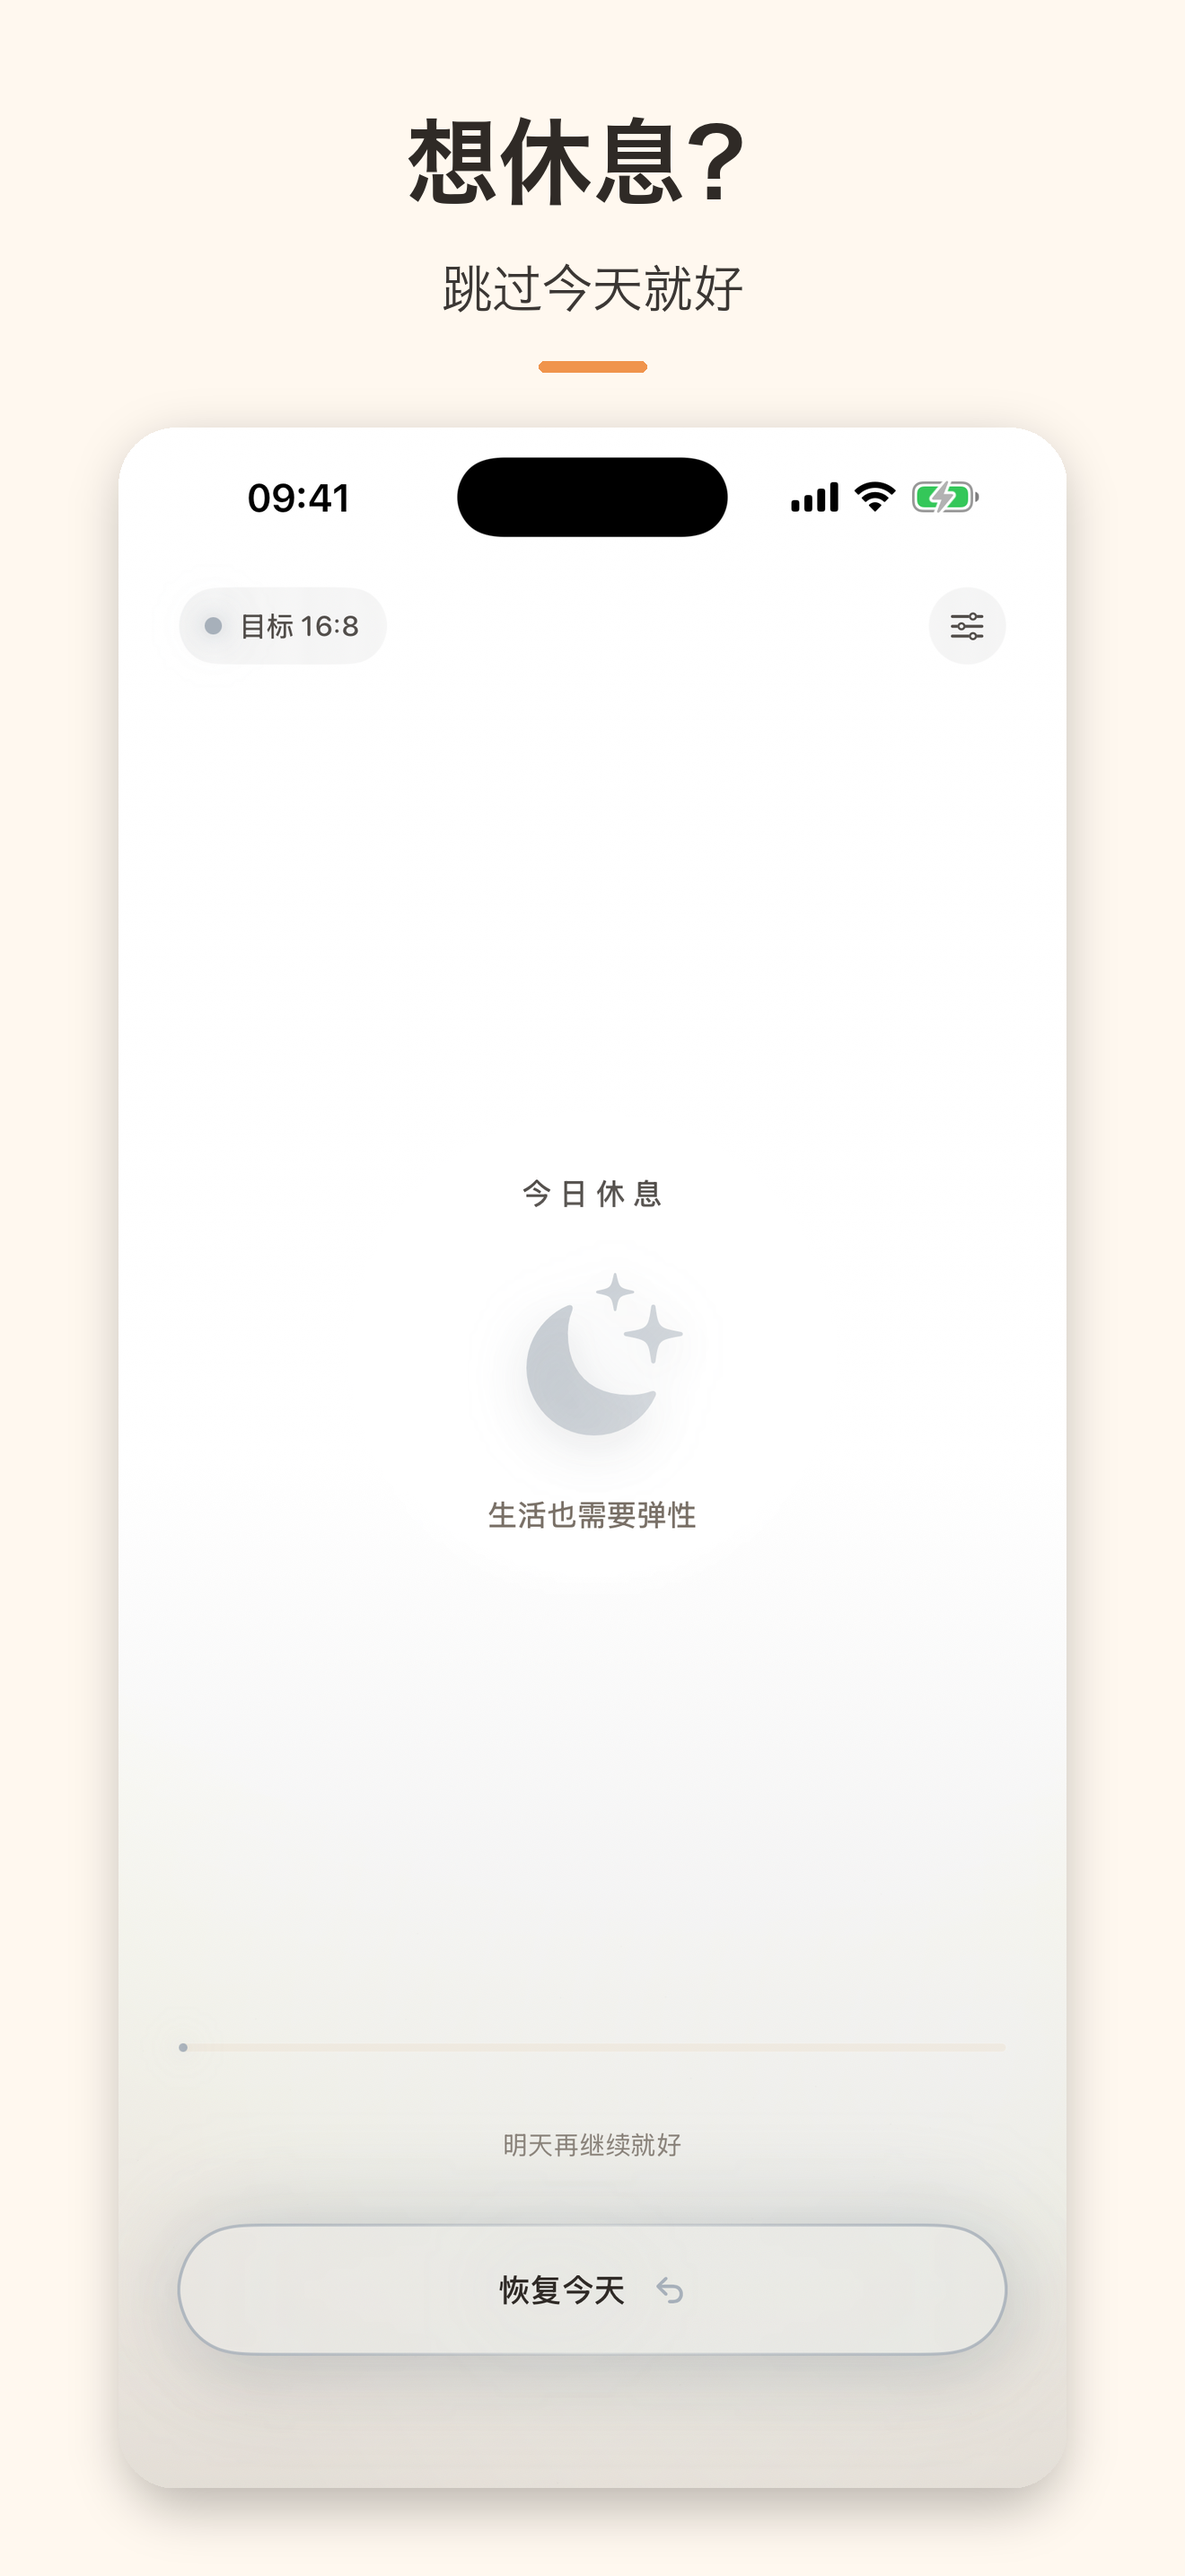
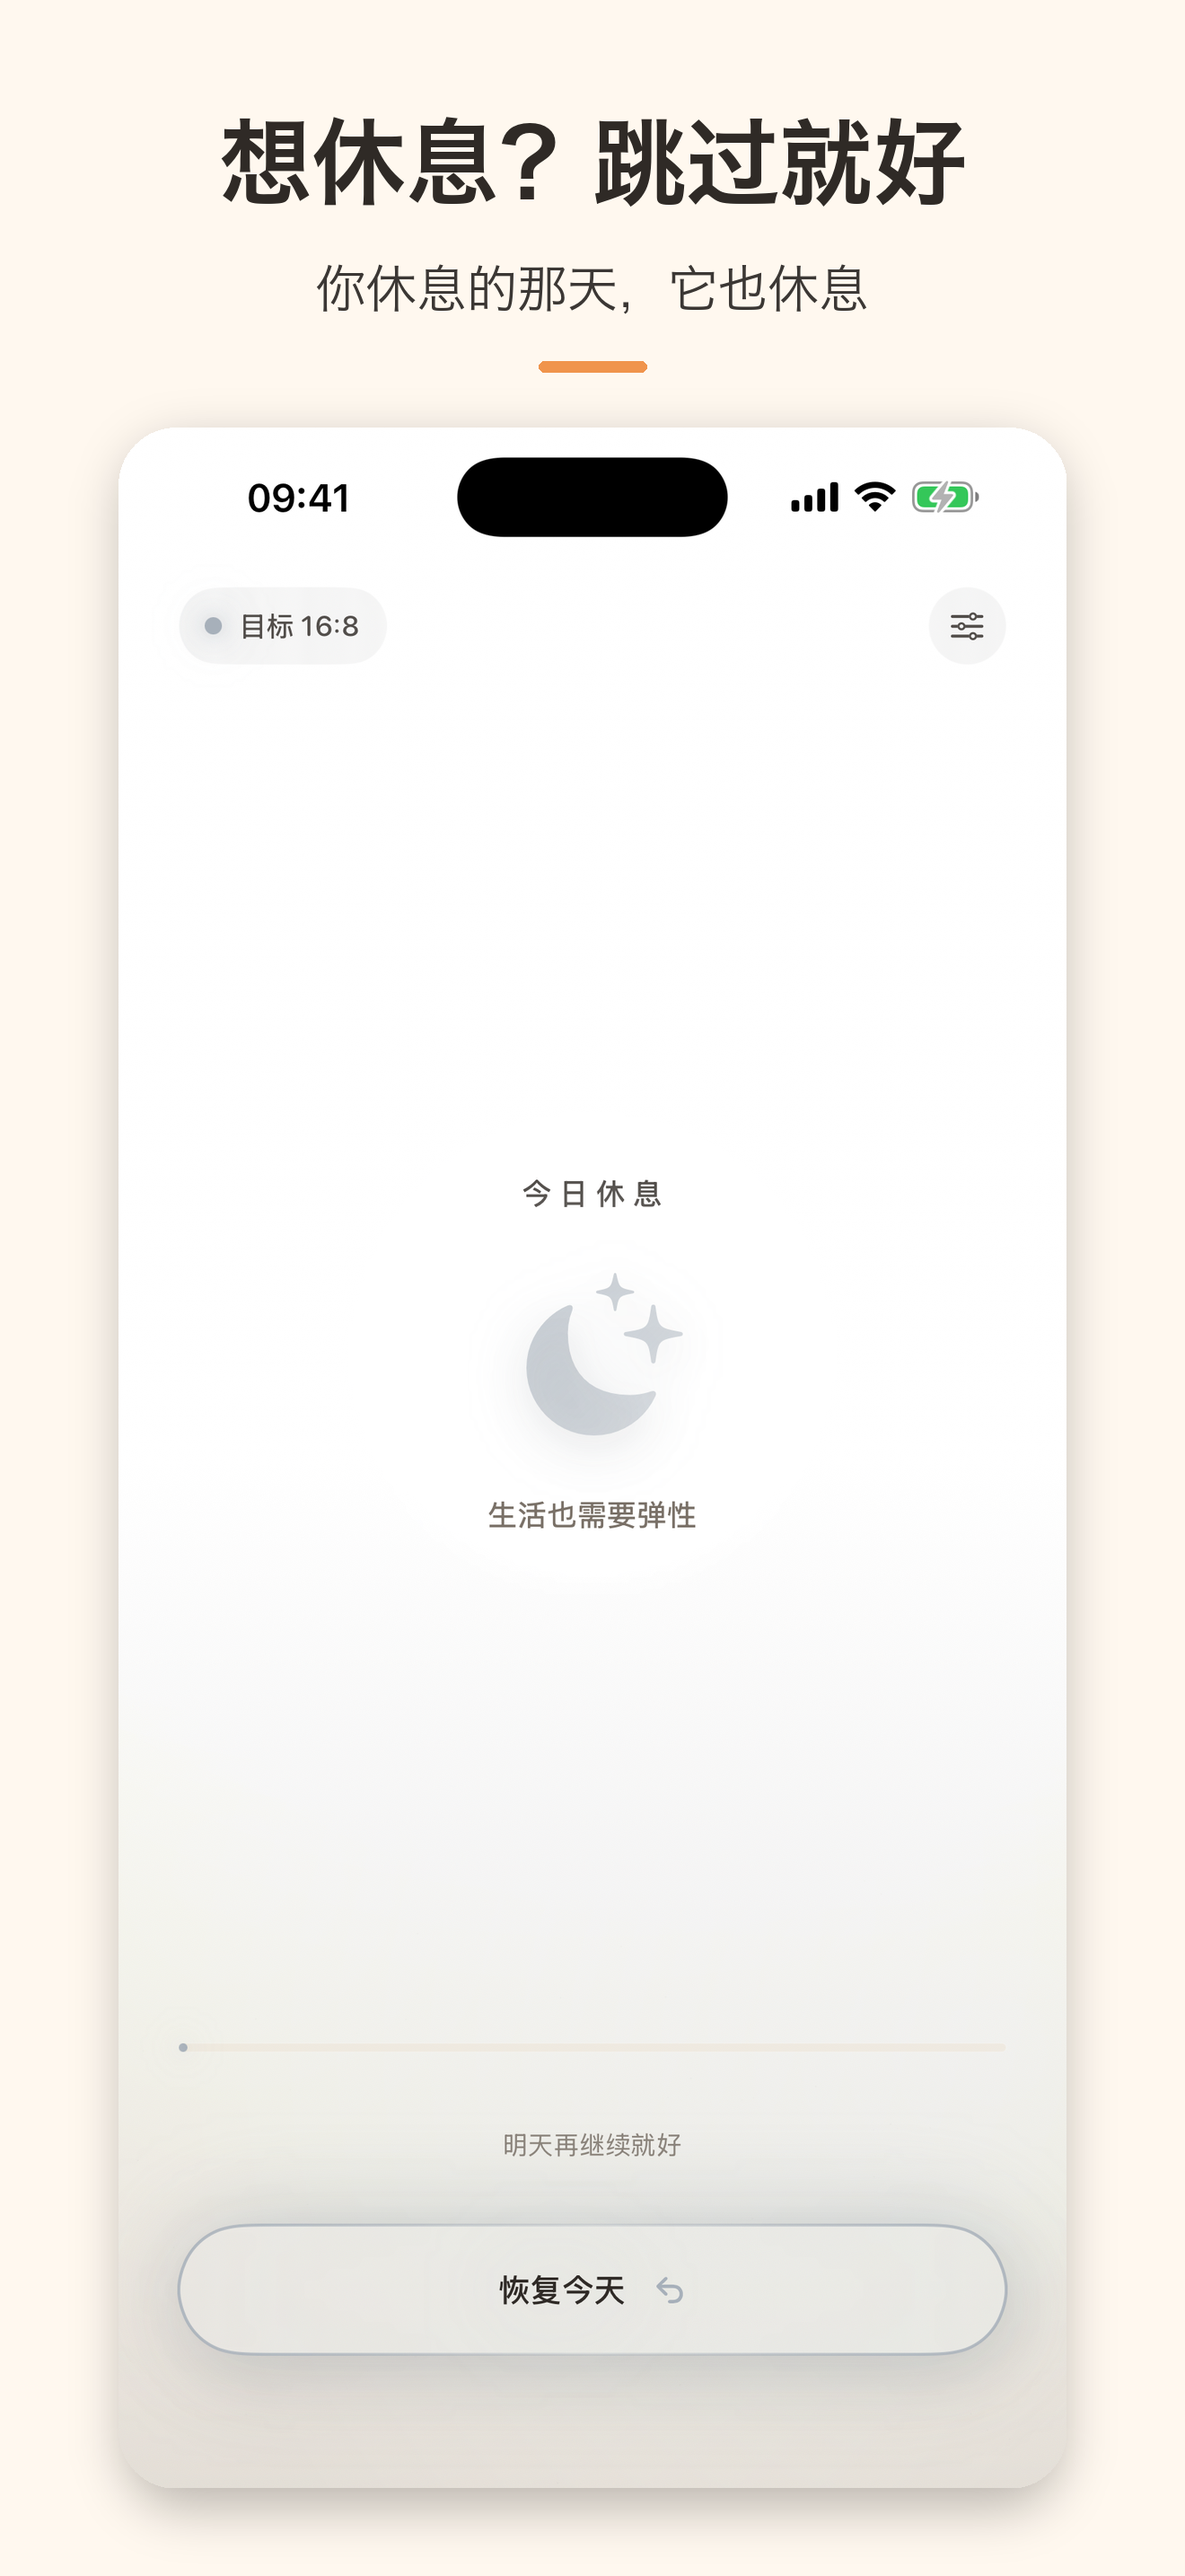
Store copy v3: principled, personable voice
Manifesto structure — "a few things we believe" + paired sections
"what it does, carefully" / "what it refuses to do, also carefully".
Signature lines: 陪你断食然后闭嘴 / 付一次钱安静一辈子 /
你休息的那天它也休息 / it's a timer, not a doctor.
All self-statements; no comparative claims. Shot 04 caption updated.

Changed region(s): [[0.1864, 0.031, 0.8076, 0.1241]]

diff --git a/AppStore/store-copy.md b/AppStore/store-copy.md
@@ -37,7 +37,7 @@
 
 **推广文本**（170 字符内，可随时更新，不索引——只做正面自述，不比较不贬损）
 ```
-一次买断，无订阅，无广告，无内购。不打卡，不催促，不打扰——只做一件事：安静地陪你计时。
+它的原则很简单：陪你断食，然后闭嘴。一次买断，无订阅，无广告，无内购——付一次钱，安静一辈子。
 ```
 
 **关键词**（100 字符内，半角逗号分隔，已与名称/副标题去重）
@@ -45,46 +45,57 @@
 减肥,减脂,瘦身,减重,168,禁食,液断,生酮,体重,空腹,不吃晚饭,断糖,计划,打卡,自律,买断,小组件,fasting
 ```
 
-**描述**（前三行是折叠线以上的黄金位——正面宣言开场，不提及任何其他应用）
+**描述**（前三行是折叠线以上的黄金位——原则宣言开场，只说自己）
 ```
-轻断食时钟只做一件事：安静地陪你计时。
+轻断食时钟，一个有原则的计时器。
 
-一次买断，无订阅，无广告，无内购。
-不打卡，不推送，不打扰——打开，就是计时器本身。
+它的原则很简单：陪你断食，然后闭嘴。
+一次买断，没有订阅，没有广告，没有内购——付一次钱，安静一辈子。
 
-【轻，是设计出来的】
-• 一次买断：付一次钱，一直用。没有订阅，没有广告，没有"高级版"——以后也不会有
-• 一眼看懂：一个圆环 / 一条光带，断食走到哪、还剩多久，打开就知道
-• 不打卡，不排行，不推鸡汤：想休息就跳过今天，生活也需要弹性
-• 两种风格：经典圆环与极简大字，浅色深色都好看
-• 两种节奏：
-　- 手动切换：到点只提醒，什么时候进入下一段由你决定
-　- 自动切换：按设定窗口自动轮转，打开就知道现在该不该吃
+【我们相信的几件事】
+
+好工具应该像一位有分寸的朋友：
+到点了提醒你一声，其余时间不出现。
+
+自律不需要被围观。
+所以这里没有排行榜，没有连续打卡，没有勋章——
+它甚至不数你坚持了多少天。那个数字，属于你自己。
+
+休息不是失败。
+想歇一天，点「今天休息」就好，明天它照常等你。
+你休息的那天，它也休息。
+
+【它认真做的事】
+• 一个圆环 / 一条光带：断食走到哪、还剩多久，一眼看懂
+• 两种风格：经典圆环与极简大字，深浅色都好看
+• 两种节奏：手动切换（到点只提醒，切不切你说了算），
+　或自动切换（按窗口自动轮转，打开就知道现在该不该吃）
 • 身体阶段陪伴：消化中 → 血糖渐稳 → 动用糖原 → 燃料切换 → 深度供能，
-　克制的说明，不夸大、不吓唬
-• 桌面 / 锁屏小组件：不打开 App 也能看到当前进度
-• 忘记按了？开始时间随时可以调整
-• 到点提醒：目标达成时发一条本地通知，仅此而已
+　措辞克制，不夸大、不吓唬
+• 桌面 / 锁屏小组件：不打开 App 也知道进度
+• 忘记按了？开始时间随时补调
+• 到点一条本地通知。通知的故事，到此为止
 
-【隐私也轻】
-不登录、不联网、不收集任何数据。所有记录只保存在你自己的设备上，
-卸载即彻底删除。没有第三方 SDK。
+【它认真不做的事】
+不联网，不登录，不收集任何数据；
+没有第三方 SDK，没有推送营销，没有弹窗催促。
+你的记录只住在你的手机里，随 App 卸载而消失，干干净净。
 
 【健康说明】
-本应用仅用于计时与提醒，不提供医疗建议。间歇性断食并非适合所有人，
-孕产期、糖尿病、进食障碍史、未成年人等人群请先咨询专业人士。
+它是计时器，不是医生。间歇性断食并非适合所有人——
+孕产期、糖尿病、进食障碍史、未成年人等请先咨询专业人士。
 
 按你的节奏来。
 ```
 
 **新版本说明（v1.0）**
 ```
-轻断食时钟首个版本与你见面：
-• 一次买断，无订阅无广告无内购——以后也不会有
-• 16:8 及自定义断食计划，手动 / 自动两种切换节奏
-• 经典圆环与极简大字两种首页风格
-• 桌面 / 锁屏小组件
-• 完全本地，零数据收集
+轻断食时钟 1.0，初次见面。
+
+它带着几条原则出生：
+一次买断，永不订阅；没有广告，不打卡，不打扰。
+
+愿它安安静静，陪你很多年。
 ```
 
 ---
@@ -103,7 +114,7 @@ Intermittent fasting, pay once
 
 **Promotional Text** (≤170 chars, not indexed — positive self-statement only)
 ```
-Pay once, own it forever. No subscription, no ads, no upsells, no streaks — just a quiet, beautiful fasting clock that stays out of your way.
+A timer with principles: keep you company while you fast, then stay out of the way. Pay once — no subscription, no ads, no upsells. One payment, quiet forever.
 ```
 
 **Keywords** (≤100 chars, deduped against name/subtitle)
@@ -111,50 +122,60 @@ Pay once, own it forever. No subscription, no ads, no upsells, no streaks — ju
 weight,loss,eating,window,hours,keto,ketosis,omad,water,clock,widget,if,168,plan,mindful
 ```
 
-**Description** (first 3 lines sit above the fold — positive manifesto, no references to other apps)
+**Description** (first 3 lines sit above the fold — principles first, self-statements only)
 ```
-CleanFast does one thing: it keeps time, quietly.
+CleanFast is a timer with principles.
 
-Pay once and own it forever. No subscription, no ads, no in-app
-purchases. No streaks, no spam — open it, and it's a timer.
+The main one: keep you company while you fast, then stay out of
+the way. Pay once — no subscription, no ads, no in-app purchases.
+One payment, then peace and quiet, forever.
 
-LIGHT BY DESIGN
-• Pay once: no subscription, no ads, no "premium" tier — ever
-• Glanceable: one ring (or one light bar) shows exactly where you are
-• No streaks, no leaderboards, no motivational spam — skip a day
-  whenever life happens
-• Two home styles: a classic progress ring or a minimal cinematic clock,
-  beautiful in both light and dark mode
-• Two rhythms:
-  - Manual: we only remind you at the goal — you decide when to switch
-  - Automatic: windows rotate on schedule, so one glance tells you
-    whether it's time to eat
-• Body-stage companion: Digesting → Blood sugar settling → Glycogen use →
-  Fuel switch → Deep fueling, each explained gently and honestly
-• Home & lock screen widgets: check progress without opening the app
+A FEW THINGS WE BELIEVE
+
+A good tool behaves like a considerate friend:
+it says one thing when it matters, and nothing when it doesn't.
+
+Discipline doesn't need an audience.
+So there are no leaderboards, no streaks, no badges here.
+It doesn't even count your days — that number belongs to you.
+
+Rest is not failure.
+Tap "skip today" and it simply waits until tomorrow.
+On your day off, it takes one too.
+
+WHAT IT DOES, CAREFULLY
+• One ring (or one light bar): where you are, what's left, at a glance
+• Two home styles: classic ring or minimal cinematic clock,
+  beautiful in light and dark
+• Two rhythms: manual (we remind, you decide) or automatic
+  (windows rotate on schedule)
+• Body-stage companion: Digesting → Blood sugar settling → Glycogen use
+  → Fuel switch → Deep fueling — explained gently, never dramatized
+• Home & lock screen widgets: progress without opening the app
 • Forgot to tap? Adjust the start time anytime
-• One local notification when a goal is reached — that's all
+• One local notification at the goal. That's the whole notification story.
 
-PRIVACY, ALSO LIGHT
-No account. No network. No data collection. Everything stays on your
-device and is deleted completely when you uninstall. No third-party SDKs.
+WHAT IT REFUSES TO DO, ALSO CAREFULLY
+No network. No account. No data collection. No third-party SDKs.
+No push marketing, no nag screens. Your records live on your phone
+and leave with the app. Clean.
 
 HEALTH NOTE
-CleanFast is a timer, not medical advice. Intermittent fasting is not
-for everyone — if you are pregnant, diabetic, have a history of eating
-disorders, or are under 18, please consult a professional first.
+It's a timer, not a doctor. Intermittent fasting isn't for everyone —
+if you're pregnant, diabetic, have a history of eating disorders, or
+are under 18, please talk to a professional first.
 
 At your own pace.
 ```
 
 **What's New (v1.0)**
 ```
-The first release of CleanFast:
-• Pay once — no subscriptions, no ads, no IAP, and it will stay that way
-• 16:8 and custom fasting plans, manual or automatic switching
-• Classic ring & minimal cinematic home styles
-• Home and lock screen widgets
-• Fully local, zero data collection
+CleanFast 1.0 — nice to meet you.
+
+Born with a few principles: pay once, never subscribe;
+no ads, no streaks, no noise.
+
+May it keep quiet company with you for years.
 ```
 
 ---
